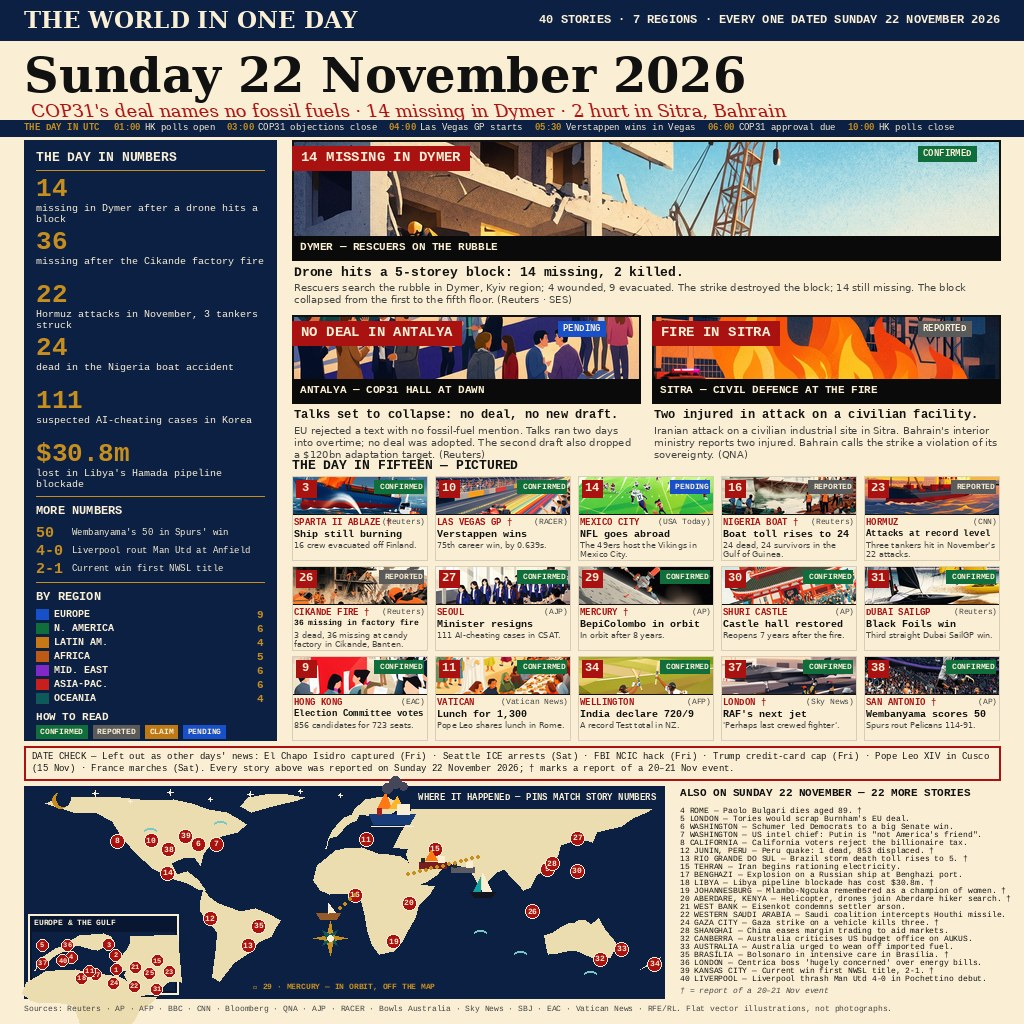
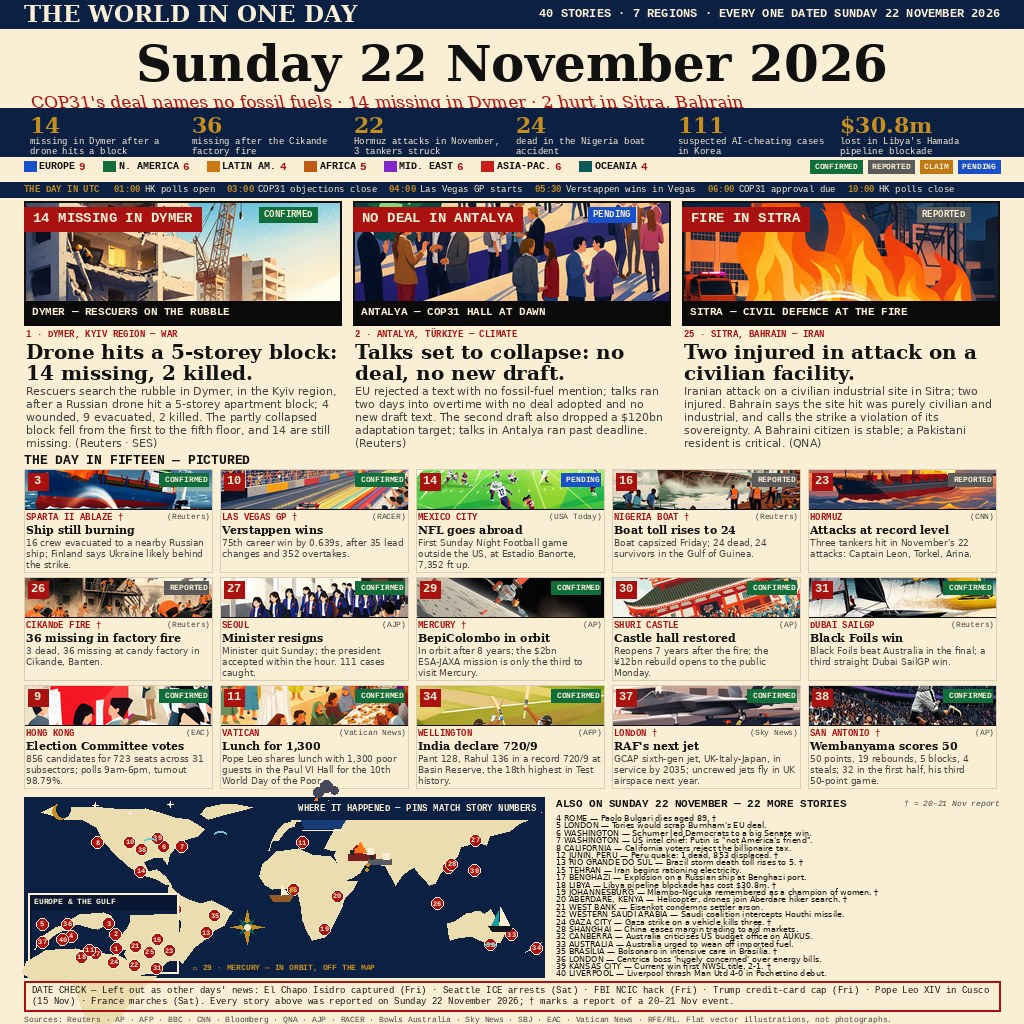
V11 ATLAS — 40 stories, flat vector, 15 picture cards, 248px heroes

diff --git a/README.md b/README.md
@@ -4,7 +4,7 @@
 [![rank](https://make.fun/badge/news-image-20261122/Fpeazy/news-image-20261122/rank.svg)](https://make.fun/bounty/news-image-20261122/leaderboard?utm_source=github&utm_medium=readme&utm_campaign=news-image-20261122)
 [![reward](https://make.fun/badge/news-image-20261122/Fpeazy/news-image-20261122/reward.svg)](https://make.fun/bounty/news-image-20261122?utm_source=github&utm_medium=readme&utm_campaign=news-image-20261122)
 
-One image summing up the world's news of Sunday 22 November 2026: a broadsheet front page with a giant date, a navy numbers rail, three flat-vector illustrated hero scenes — rescuers on the rubble in Dymer, the COP31 hall at dawn in Antalya with no deal, and civil defence at the fire in Sitra, Bahrain — fifteen pictured stories, a UTC day timeline, a world map with 40 numbered pins at the true locations of 40 verified stories, a text-only list of the remaining stories beside the map, and a red DATE CHECK box naming what was left out as other days' news. Every number in the image comes from a source dated 22 November 2026.
+One image summing up the world's news of Sunday 22 November 2026: a broadsheet front page with a giant serif date, a navy numbers strip, three flat-vector illustrated hero scenes — rescuers on the rubble in Dymer, the COP31 hall at dawn in Antalya with no deal, and civil defence at the fire in Sitra, Bahrain — with 20px serif headlines, kicker lines and five-line bodies, fifteen pictured stories, a UTC day timeline, a world map with 40 numbered pins at the true locations of 40 verified stories, a text-only list of the remaining stories beside the map, and a red DATE CHECK box at the foot naming what was left out as other days' news. Every number in the image comes from a source dated 22 November 2026.
 
 ## Run it
 
